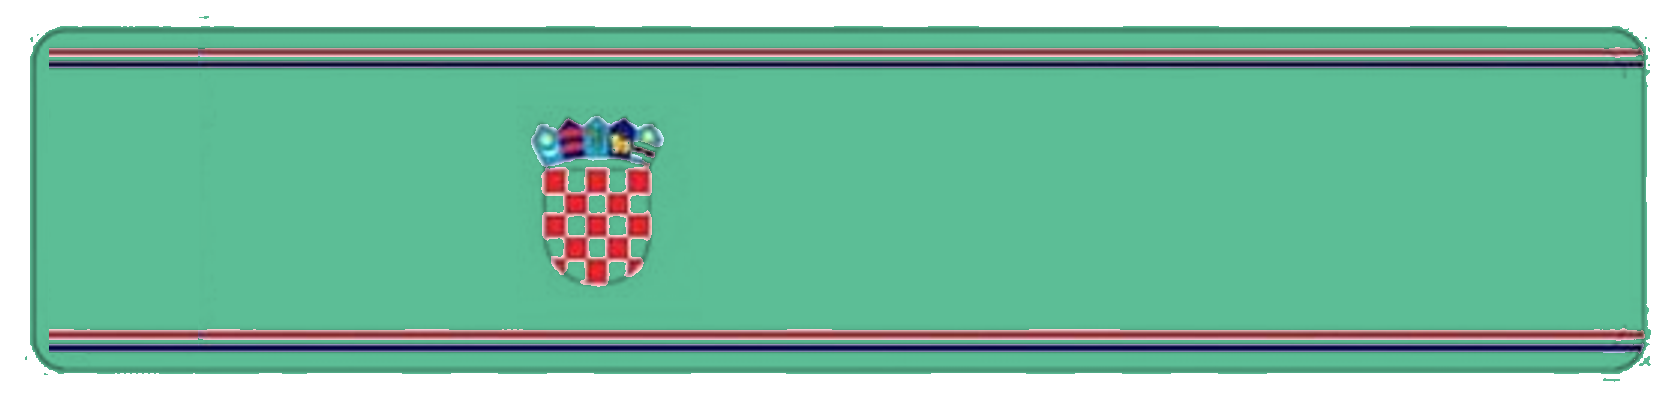
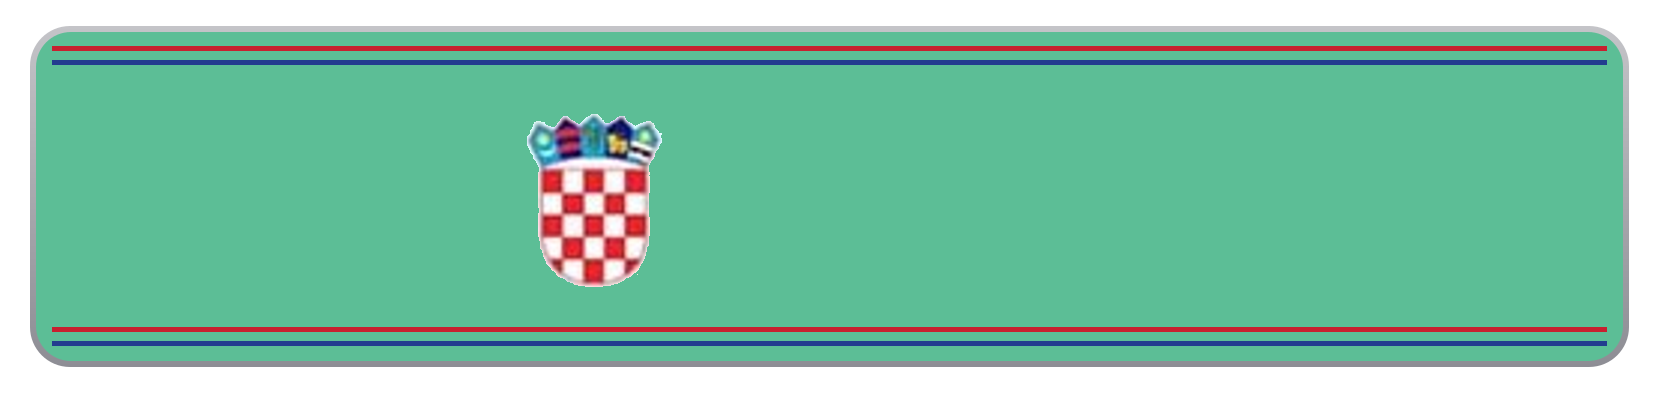
Croatia: clean plate faces (crisp stripes), centred police coat of arms, centred diplomatic text, two-row car plates with and without euroband

Changed region(s): [[0.0, 0.0611, 1.0, 0.9771], [0.3074, 0.2748, 0.3996, 0.7328]]

diff --git a/app/lib/plateLayout.ts b/app/lib/plateLayout.ts
@@ -205,9 +205,14 @@ export const PLATE_ART: Record<string, PlateArt> = {
     split: "whole",
   },
   // ── Croatia: the supplied plate photo with the lettering removed; the coat of arms is part of the artwork (region on its left, digits on its right). D-DIN lettering. ──
+  // two-row car plate: region on top (left of the coat of arms), number below
+  "croatia:two-line-euroband": { src: "/plates/croatia/two-euroband.png", w: 1024, h: 700, rows: [{ y0: 76, y1: 326, x0: 220, x1: 790, slots: 1 }, { y0: 346, y1: 626, x0: 50, x1: 974, slots: 1 }], split: "at-two", font: "dd", fill: 0.92, condense: 0.9, tracking: 0.03, thin: -0.02 },
+  "croatia:two-line": { src: "/plates/croatia/two.png", w: 1024, h: 700, rows: [{ y0: 76, y1: 326, x0: 40, x1: 790, slots: 1 }, { y0: 346, y1: 626, x0: 50, x1: 974, slots: 1 }], split: "at-two", font: "dd", fill: 0.92, condense: 0.9, tracking: 0.03, thin: -0.02 },
   // motorcycle: square plate, three rows (region / digits / letters), coat of arms top right
   "croatia:triple-row-euroband": { src: "/plates/croatia/moto-euroband.png", w: 1024, h: 1044, rows: [{ y0: 86, y1: 366, x0: 255, x1: 675, slots: 1 }, { y0: 382, y1: 662, x0: 150, x1: 880, slots: 1 }, { y0: 681, y1: 961, x0: 330, x1: 700, slots: 1 }], split: "hr-three", font: "dd", fill: 0.93, condense: 0.9, tracking: 0.03, thin: -0.02 },
   "croatia:triple-row": { src: "/plates/croatia/moto.png", w: 1024, h: 1044, rows: [{ y0: 86, y1: 366, x0: 200, x1: 690, slots: 1 }, { y0: 382, y1: 662, x0: 120, x1: 904, slots: 1 }, { y0: 681, y1: 961, x0: 300, x1: 724, slots: 1 }], split: "hr-three", font: "dd", fill: 0.93, condense: 0.9, tracking: 0.03, thin: -0.02 },
+  // police: white, no euroband, blue lettering, coat of arms in the middle (digits either side)
+  "croatia:police": { src: "/plates/croatia/police-single.png", w: 1659, h: 393, rows: [{ y0: 74, y1: 321, x0: 90, x1: 730, slots: 1, align: "right" }, { y0: 74, y1: 321, x0: 930, x1: 1570, slots: 1, align: "left" }], split: "seal", font: "dd", fill: 0.9, condense: 0.9, tracking: 0.03, thin: -0.02, textColor: "#1f3f9a" },
   // diplomatic: light blue, gold lettering, middle dots, no euroband
   "croatia:diplomatic": { src: "/plates/croatia/diplomatic-single.png", w: 1659, h: 393, rows: [{ y0: 62, y1: 332, x0: 120, x1: 1540, slots: 1 }], split: "whole", font: "dd", fill: 0.82, condense: 0.9, tracking: 0.06, thin: -0.02, textColor: "#f3b02a", dots: true },
   // military (yellow, black lettering) and export (green, yellow lettering): never with a euroband
@@ -331,7 +336,7 @@ export function plateArtFor(country: string, plateType?: string | null): PlateAr
     if (category === "diplomatic") return PLATE_ART["croatia:diplomatic"] ?? null;
     if (category === "military") return PLATE_ART["croatia:military"] ?? null;
     if (category === "export") return PLATE_ART["croatia:export"] ?? null;
-    if (category === "police") return PLATE_ART["croatia:single-line"] ? { ...PLATE_ART["croatia:single-line"], textColor: "#1f3f9a" } : null;   // police: white, no euroband, blue lettering
+    if (category === "police") return PLATE_ART["croatia:police"] ?? null;
     const art = PLATE_ART[`croatia:${format}`] ?? null;
     if (art && category === "foreign") return { ...art, textColor: "#1f7a3d" };            // foreign citizens: green lettering
     if (art && category === "exceptional") return { ...art, textColor: "#c8202f" };       // exceptional vehicles: red lettering
@@ -607,7 +612,7 @@ export function plateLayout(country: string, rawText: string, height: number, pl
       const sealD = !mode ? 0 : stateSrc ? sealH * sealAspect(stateSrc) : art.sealAspect ? sealH * art.sealAspect : rowH * SEAL_DIAMETER;
       const gap = mode ? rowH * (row.gap ?? SEAL_GAP) : 0;
       const gaps = mode === "between" ? 2 : mode === "left" || mode === "right" ? 1 : 0;   // gaps touching the seal
-      const ems = texts.map((t) => textWidthEm(t, font, art.condense ?? (font === "dd" ? 1 : CONDENSE)) + (art.tracking ?? 0) * [...t].length);
+      const ems = texts.map((t) => textWidthEm(art.dots ? t.replace(/-/g, "·") : t, font, art.condense ?? (font === "dd" ? 1 : CONDENSE)) + (art.tracking ?? 0) * [...t].length);
       return { row, texts, rowH, mode, sealD, sealH, gap, gaps, ems, avail: (row.x1 - row.x0) * s };
     });
     const fit = (l: (typeof lines)[number]) => Math.min((l.rowH * (art.fill ?? 0.72)) / capHF, (l.avail - l.sealD - l.gaps * l.gap) / Math.max(l.ems.reduce((x, y) => x + y, 0), 0.5));

diff --git a/app/lib/countryPlateTypes.ts b/app/lib/countryPlateTypes.ts
@@ -13,7 +13,7 @@ export function catalogPlateTypes(country: string): { type: string; sample: stri
       return BOSNIA_CATEGORIES.flatMap((c) => BOSNIA_FORMATS_FOR[c.id].map((f) => ({ type: `${c.id}__${f}`, sample: c.example })));
     case "croatia":     // the types that have artwork so far
       return CROATIA_CATEGORIES.filter((c) => ["regular", "foreign", "exceptional", "motorcycle", "vanity", "dealer", "oldtimer", "military", "export", "police", "diplomatic"].includes(c.id))
-        .flatMap((c) => (c.id === "motorcycle" ? ["triple-row-euroband", "triple-row"] : ["single-line-euroband", "single-line"])
+        .flatMap((c) => (c.id === "motorcycle" ? ["triple-row-euroband", "triple-row"] : ["regular", "foreign", "exceptional"].includes(c.id) ? ["single-line-euroband", "single-line", "two-line-euroband", "two-line"] : ["single-line-euroband", "single-line"])
           .map((f) => ({ type: `${c.id}__${f}`, sample: c.id === "motorcycle" ? "ZG 9619 GU" : c.example })));
     case "bulgaria":
       return BULGARIA_CATEGORIES.flatMap((c) => BULGARIA_FORMATS_FOR[c.id].map((f) => ({ type: `${c.id}__${f}`, sample: c.example })));

diff --git a/app/lib/ddinMetrics.ts b/app/lib/ddinMetrics.ts
@@ -1,4 +1,4 @@
 // Generated by scripts/build-ddin-metrics.cjs — do not edit by hand.
 // D-DIN (SIL OFL, Datto Inc.): capital height and advance widths in em.
 export const DD_CAP_HEIGHT = 0.69;
-export const DD_ADVANCE: Record<string, number> = {"0":0.493,"1":0.329,"2":0.468,"3":0.495,"4":0.499,"5":0.484,"6":0.494,"7":0.431,"8":0.512,"9":0.494,"A":0.577,"B":0.614,"C":0.61,"D":0.621,"E":0.547,"F":0.539,"G":0.61,"H":0.629,"I":0.249,"J":0.313,"K":0.598,"L":0.529,"M":0.753,"N":0.663,"O":0.61,"P":0.577,"Q":0.61,"R":0.599,"S":0.546,"T":0.482,"U":0.635,"V":0.523,"W":0.796,"X":0.566,"Y":0.499,"Z":0.516,"-":0.393,".":0.194," ":0.217,"Š":0.546,"Ž":0.516};
+export const DD_ADVANCE: Record<string, number> = {"0":0.493,"1":0.329,"2":0.468,"3":0.495,"4":0.499,"5":0.484,"6":0.494,"7":0.431,"8":0.512,"9":0.494,"A":0.577,"B":0.614,"C":0.61,"D":0.621,"E":0.547,"F":0.539,"G":0.61,"H":0.629,"I":0.249,"J":0.313,"K":0.598,"L":0.529,"M":0.753,"N":0.663,"O":0.61,"P":0.577,"Q":0.61,"R":0.599,"S":0.546,"T":0.482,"U":0.635,"V":0.523,"W":0.796,"X":0.566,"Y":0.499,"Z":0.516,"-":0.393,".":0.194," ":0.217,"Š":0.546,"Ž":0.516,"·":0.194};

diff --git a/app/components/PlateBadge.tsx b/app/components/PlateBadge.tsx
@@ -12,7 +12,7 @@ export { formatPlateText } from "@/app/lib/plateLayout";
 export type { PlateSize };
 
 /** Bump when the plate rendering changes, so CDN-cached images refresh. */
-const PLATE_IMAGE_VERSION = 49;
+const PLATE_IMAGE_VERSION = 51;
 /** Render at 3× for crisp output on high-density screens. */
 const DENSITY = 3;
 
